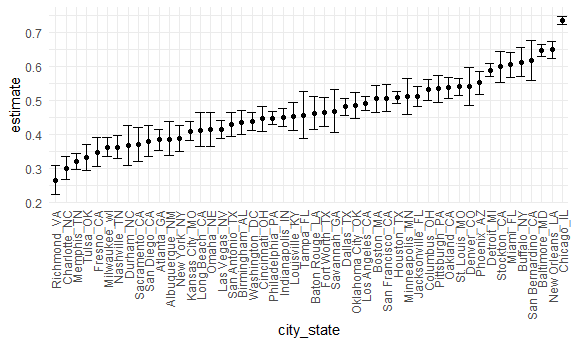
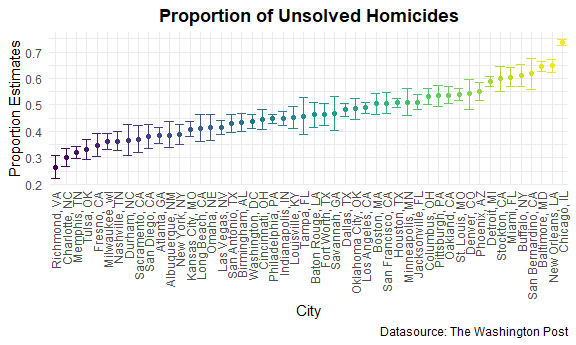
4th - updated knited md

diff --git a/p8105_hw5_kl3069.md b/p8105_hw5_kl3069.md
@@ -5,12 +5,14 @@ Kyung Suk Lee
 
   - [Problem 1](#problem-1)
       - [1-1) Description of the raw data](#description-of-the-raw-data)
-      - [1-2) Create a city\_state variable and obtain the total number
-        of homicides and the number of unsolved
-        homicides](#create-a-city_state-variable-and-obtain-the-total-number-of-homicides-and-the-number-of-unsolved-homicides)
-      - [1-3) Estimate the proportion of homicides that are
-        unsolved](#estimate-the-proportion-of-homicides-that-are-unsolved)
-      - [Problem 2](#problem-2)
+      - [1-2) The number of homicides and unsolved
+        homicides](#the-number-of-homicides-and-unsolved-homicides)
+      - [1-3) Proportion of unsolved homicides
+        (Baltimore)](#proportion-of-unsolved-homicides-baltimore)
+      - [1-4) Proportion of unsolved homicides (All
+        cities)](#proportion-of-unsolved-homicides-all-cities)
+      - [1-5) Plot](#plot)
+  - [Problem 2](#problem-2)
 
 ``` r
 library(tidyverse)
@@ -69,14 +71,16 @@ homicide_raw
     basic demographic information (e.g., sex, age, race) about each
     victim.
 
-## 1-2) Create a city\_state variable and obtain the total number of homicides and the number of unsolved homicides
+## 1-2) The number of homicides and unsolved homicides
 
 ``` r
+# create a city_state variable
+# obtain the total number of homicides and the number of unsolved homicides
 homicide_df = 
   homicide_raw %>% 
   janitor::clean_names() %>% 
   mutate(
-    city_state = str_c(city, state, sep = "_"),
+    city_state = str_c(city, state, sep = ", "),
     resolved = case_when(
       disposition == "Closed without arrest" ~ "unsolved",
       disposition == "Open/No arrest"        ~ "unsolved",
@@ -84,7 +88,7 @@ homicide_df =
     )
   ) %>% 
   select(city_state, resolved) %>% 
-  filter(city_state != "Tulsa_AL")
+  filter(city_state != "Tulsa, AL")
 
 aggregate_df = 
   homicide_df %>% 
@@ -98,28 +102,28 @@ aggregate_df
 ```
 
     # A tibble: 50 x 3
-       city_state     hom_total hom_unsolved
-       <chr>              <int>        <int>
-     1 Albuquerque_NM       378          146
-     2 Atlanta_GA           973          373
-     3 Baltimore_MD        2827         1825
-     4 Baton Rouge_LA       424          196
-     5 Birmingham_AL        800          347
-     6 Boston_MA            614          310
-     7 Buffalo_NY           521          319
-     8 Charlotte_NC         687          206
-     9 Chicago_IL          5535         4073
-    10 Cincinnati_OH        694          309
+       city_state      hom_total hom_unsolved
+       <chr>               <int>        <int>
+     1 Albuquerque, NM       378          146
+     2 Atlanta, GA           973          373
+     3 Baltimore, MD        2827         1825
+     4 Baton Rouge, LA       424          196
+     5 Birmingham, AL        800          347
+     6 Boston, MA            614          310
+     7 Buffalo, NY           521          319
+     8 Charlotte, NC         687          206
+     9 Chicago, IL          5535         4073
+    10 Cincinnati, OH        694          309
     # ... with 40 more rows
 
-## 1-3) Estimate the proportion of homicides that are unsolved
+## 1-3) Proportion of unsolved homicides (Baltimore)
 
 ``` r
 # pull the estimated proportion and confidence intervals
 
 prop.test(
-  aggregate_df %>% filter(city_state == "Baltimore_MD") %>% pull(hom_unsolved),
-  aggregate_df %>% filter(city_state == "Baltimore_MD") %>% pull(hom_total)
+  aggregate_df %>% filter(city_state == "Baltimore, MD") %>% pull(hom_unsolved),
+  aggregate_df %>% filter(city_state == "Baltimore, MD") %>% pull(hom_total)
   ) %>% 
   broom::tidy() %>% 
   select(estimate, conf.low, conf.high)
@@ -130,9 +134,11 @@ prop.test(
          <dbl>    <dbl>     <dbl>
     1    0.646    0.628     0.663
 
-Let’s iterate
+## 1-4) Proportion of unsolved homicides (All cities)
 
 ``` r
+# extract the proportion of unsolved homicides for each cities
+# extract the confidence interval for each cities
 results_df = 
   aggregate_df %>% 
     mutate(
@@ -142,45 +148,48 @@ results_df =
     select(-prop_tests) %>% 
     unnest(tidy_tests) %>% 
     select(city_state, estimate, conf.low, conf.high)
+
+results_df
 ```
+
+    # A tibble: 50 x 4
+       city_state      estimate conf.low conf.high
+       <chr>              <dbl>    <dbl>     <dbl>
+     1 Albuquerque, NM    0.386    0.337     0.438
+     2 Atlanta, GA        0.383    0.353     0.415
+     3 Baltimore, MD      0.646    0.628     0.663
+     4 Baton Rouge, LA    0.462    0.414     0.511
+     5 Birmingham, AL     0.434    0.399     0.469
+     6 Boston, MA         0.505    0.465     0.545
+     7 Buffalo, NY        0.612    0.569     0.654
+     8 Charlotte, NC      0.300    0.266     0.336
+     9 Chicago, IL        0.736    0.724     0.747
+    10 Cincinnati, OH     0.445    0.408     0.483
+    # ... with 40 more rows
+
+## 1-5) Plot
 
 ``` r
 results_df %>%
   mutate(city_state = fct_reorder(city_state, estimate)) %>% 
-  ggplot(aes(x = city_state, y = estimate)) +
+  ggplot(aes(x = city_state, y = estimate, color = city_state)) +
   geom_point() +
   geom_errorbar(aes(ymin = conf.low, ymax = conf.high)) +
-  theme(axis.text.x = element_text(angle = 90, vjust = 0.5, hjust = 1))
+  labs(
+      title = "Proportion of Unsolved Homicides",
+      x = "City",
+      y = "Proportion Estimates",
+      caption = "Datasource: The Washington Post") +
+  theme(legend.position = "none") +
+  theme(axis.text.x = element_text(angle = 90, vjust = 0.5, hjust = 1)) +
+  theme(plot.title = element_text(face="bold",
+                                  hjust=0.5,
+                                  lineheight=1.2))
 ```
 
 <img src="p8105_hw5_kl3069_files/figure-gfm/unnamed-chunk-5-1.png" width="90%" />
 
-``` r
-city_prop_test = function(df){ 
-  
-  n_unsolved ...
-  n_total ...
-  
-  prop.test(...)
-  
-}
-
-homicide_df = 
-  read_csv("data/homicide-data.csv") %>% 
-  mutate(
-    city_state = str_c(city, state, sep = "_"),
-    resolved = case_when(
-      disposition == "Closed without arrest" ~ "unsolved",
-      disposition == "Open/No arrest"        ~ "unsolved",
-      disposition == "Closed by arrest"      ~ "solved"
-    )
-  ) %>% 
-  select(city_state, resolved) %>% 
-  filter(city_state != "Tulsa_AL") %>% 
-  nest()
-```
-
-## Problem 2
+# Problem 2
 
 ``` r
 data_1 = read_csv("arm_data/con_01.csv")
